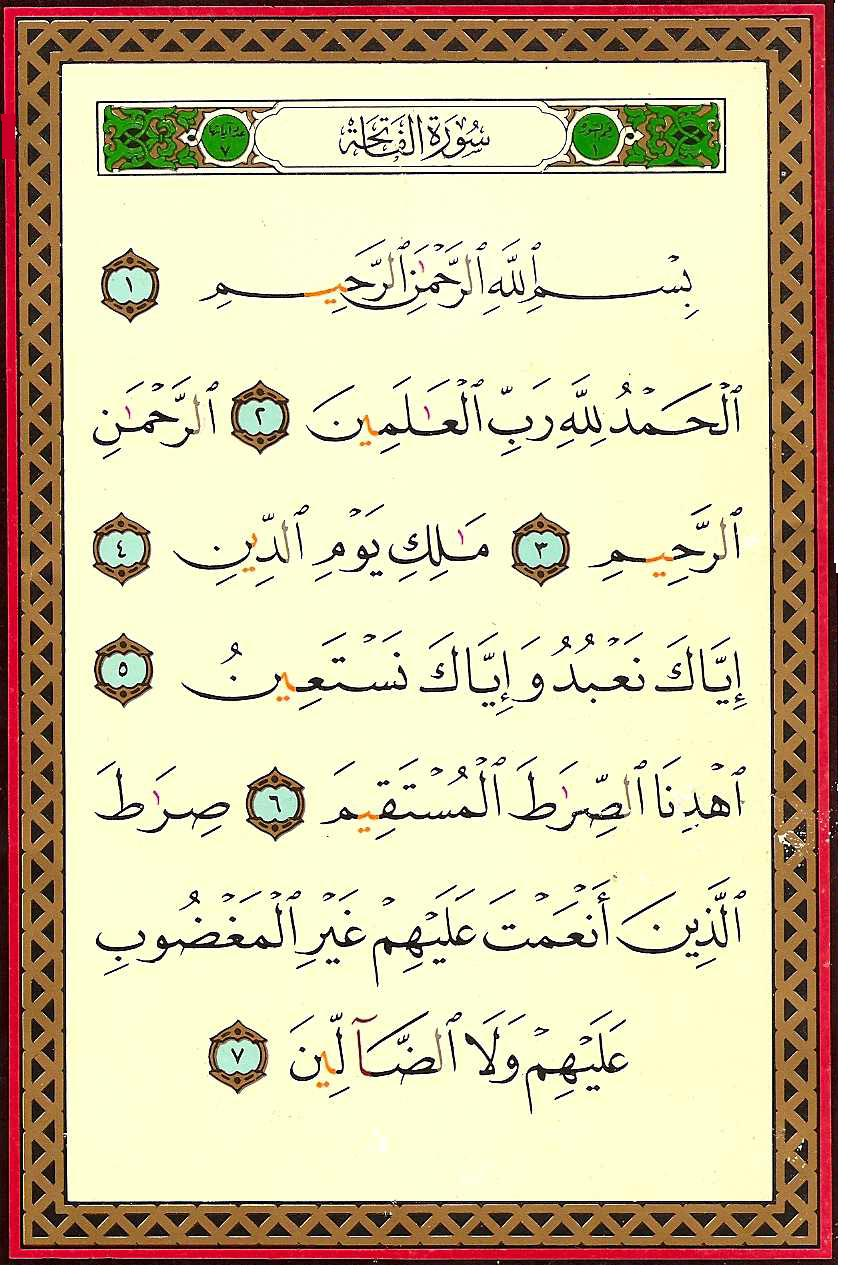
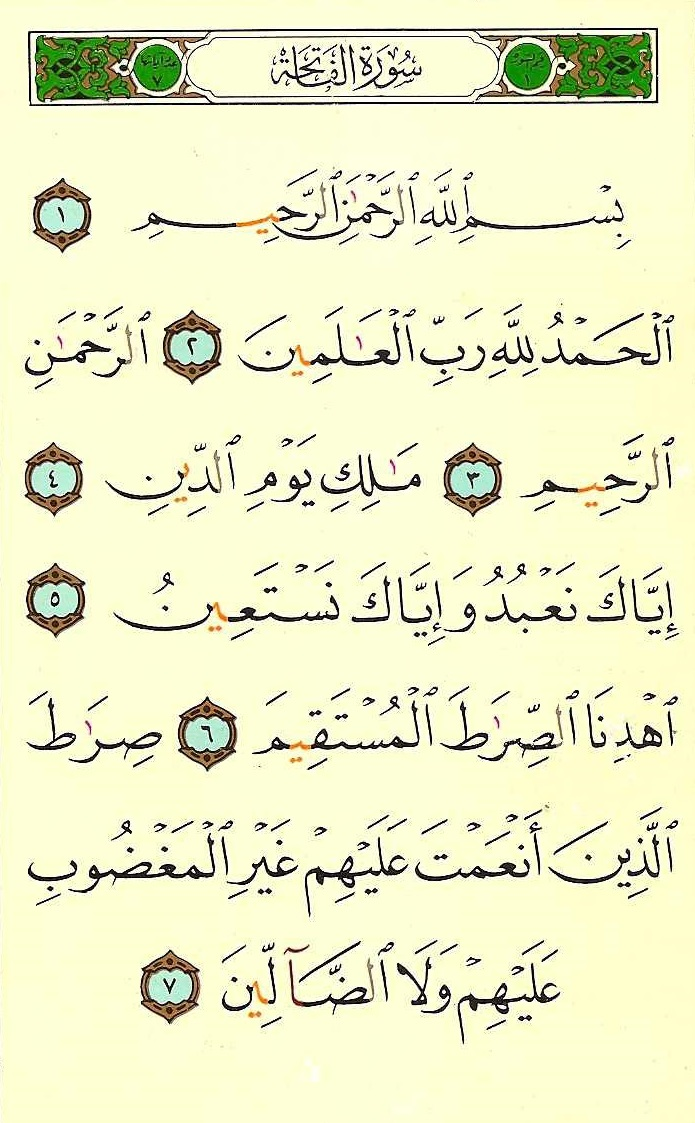
fluidity revamped

diff --git a/index.html b/index.html
@@ -43,8 +43,8 @@
                 </div>
             </div>
 
-          <div class="row test">
-            <div class="col-md-4" id="fatihah-container">
+          <div class="row-fluid test">
+            <div class="col-md-6 container-fluid test" id="fatihah-container">
       
               <img src="images/fatihah.jpg"  usemap="#image-map" id="fatihah"/>
 
@@ -65,9 +65,9 @@
 
        
 
-            <div class="col-md-8 test" id="show-area">
+            <div class="col-lg-6 test" id="show-area">
                 <div class="panel panel-default" id="main-tafsir-section">
-                    <div class="panel-heading">Section 0</div>
+                    <div class="panel-heading">Ayat Tafseer</div>
                     <div class="panel-body panel-content">
                         <p id="bismillah-text" style="display:none">
                     Class aptent taciti sociosqu ad litora torquent per conubia nostra, per inceptos himenaeos. Praesent interdum gravida ipsum non venenatis. Nulla aliquam, leo in lobortis eleifend, nunc erat eleifend augue, vitae pretium est tellus et ligula. Aliquam eget nibh mauris. Quisque nec laoreet sem, sed cursus nisi. Praesent nec turpis augue. Curabitur tristique velit vel mauris efficitur, et hendrerit risus gravida. Cras auctor mi quis tortor volutpat elementum. Integer varius, ex a feugiat euismod, magna metus mattis enim, at interdum sem justo eu massa. Maecenas nec tortor tempus, venenatis erat sit amet, mattis odio. Proin libero elit, ornare et massa convallis, rutrum venenatis lorem. Suspendisse nulla magna, consequat feugiat semper vestibulum, feugiat euismod enim. Donec maximus, neque non euismod sollicitudin, leo felis fringilla turpis, ac placerat ipsum nunc ut elit. In maximus et magna vel gravida. Aliquam sit amet lacinia augue. In et sem et est auctor rutrum at id lacus.
@@ -98,7 +98,7 @@
                 <div class="row">
                     <div class="col-xs-6">
                         <div class="panel panel-default" id="sub-ayat-elab-section">
-                            <div class="panel-heading">Section 1</div>
+                            <div class="panel-heading">Ayat by Ayat Tafseer</div>
                             <div class="panel-body panel-content">
                         Cras gravida nisi vel tellus posuere pretium. Sed elementum dui vel luctus placerat. Duis nec consectetur massa, non ornare est. Fusce varius semper quam, sit amet scelerisque nibh mattis bibendum. Donec egestas mollis erat nec congue. Phasellus fringilla, dui non ullamcorper dapibus, diam enim laoreet nunc, non efficitur nulla arcu sed mauris. Interdum et malesuada fames ac ante ipsum primis in faucibus. In hac habitasse platea dictumst. Aenean facilisis, quam eget laoreet eleifend, ante ligula dapibus diam, sed porta ex quam eu augue. Nulla vestibulum, velit vitae convallis volutpat, metus dolor accumsan velit, non convallis ipsum urna vel risus.
                             </div>
@@ -112,7 +112,7 @@
                     
                     <div class="col-xs-6">
                         <div class="panel panel-default" id="media">
-                            <div class="panel-heading panel-heading-custom">Section 2</div>
+                            <div class="panel-heading panel-heading-custom">Media</div>
 
                             <div class="panel-body panel-content">
                                 Cras gravida nisi vel tellus posuere pretium. Sed elementum dui vel luctus placerat. Duis nec consectetur massa, non ornare est. Fusce varius semper quam, sit amet scelerisque nibh mattis bibendum. Donec egestas mollis erat nec congue. Phasellus fringilla, dui non ullamcorper dapibus, diam enim laoreet nunc, non efficitur nulla arcu sed mauris. Interdum et malesuada fames ac ante ipsum primis in faucibus. In hac habitasse platea dictumst. Aenean facilisis, quam eget laoreet eleifend, ante ligula dapibus diam, sed porta ex quam eu augue. Nulla vestibulum, velit vitae convallis volutpat, metus dolor accumsan velit, non convallis ipsum urna vel risus.

diff --git a/css/stylesheet.css b/css/stylesheet.css
@@ -1,9 +1,13 @@
 #fatihah {
     max-width:848px;
     max-height:1274px;
-    height: 80vh;
+    height: 90vh;    
+
     
-/*    margin: 25%;*/
+}
+
+#fatihah-container {
+    
 }
 
 .panel-heading {
@@ -13,11 +17,14 @@
 
 .panel-default {
     /*background: #CCFFBB !important; color: #fff; */
+        background-color: rgba(255,255,255,0.5) !important;
 } 
 
 .panel {
-    border-radius: 15px !important;    
+    /*border-radius: 15px !important;    */
 }
+
+
 
 #top-nav {
     margin-top: 20px;
@@ -34,8 +41,9 @@
 */
 
 #show-area {
-    /*max-width: 30vh;
-    border-style: dotted;*/
+    /*this makes it fill the whole right area beside image*/
+    float: none;
+    display: table-cell;
    
 }
 
@@ -48,10 +56,6 @@ body {
     background-size: cover;;
 }
 
-
-#middle-section {
-/*    position: relative;*/
-}
 
 div.col-md-2 {
     height: 100vh;

diff --git a/scripts/hover.js b/scripts/hover.js
@@ -2,7 +2,17 @@
 
  
 
-$('#fatihah').mapster({
+
+
+$(document).ready(function(){
+    // $('map').imageMapResize();
+//    $('#fatihah').maphilight();  
+    // $('#fatihah').maphilight().parent().addClass('center-map');
+ 
+
+	$('#fatihah-container').width($('#fatihah').width());   
+
+   	$('#fatihah').mapster({
 	render_highlight: {
 		fillOpacity: 0.4,
 	    fillColor: "6aff3d",
@@ -20,16 +30,7 @@ $('#fatihah').mapster({
     singleSelect: true,
     mapKey: 'name',
     listKey: 'name',
-});
-
-$(document).ready(function(){
-    // $('map').imageMapResize();
-//    $('#fatihah').maphilight();  
-    // $('#fatihah').maphilight().parent().addClass('center-map');
- 
-   
-
-   
+	});
 
 
 
